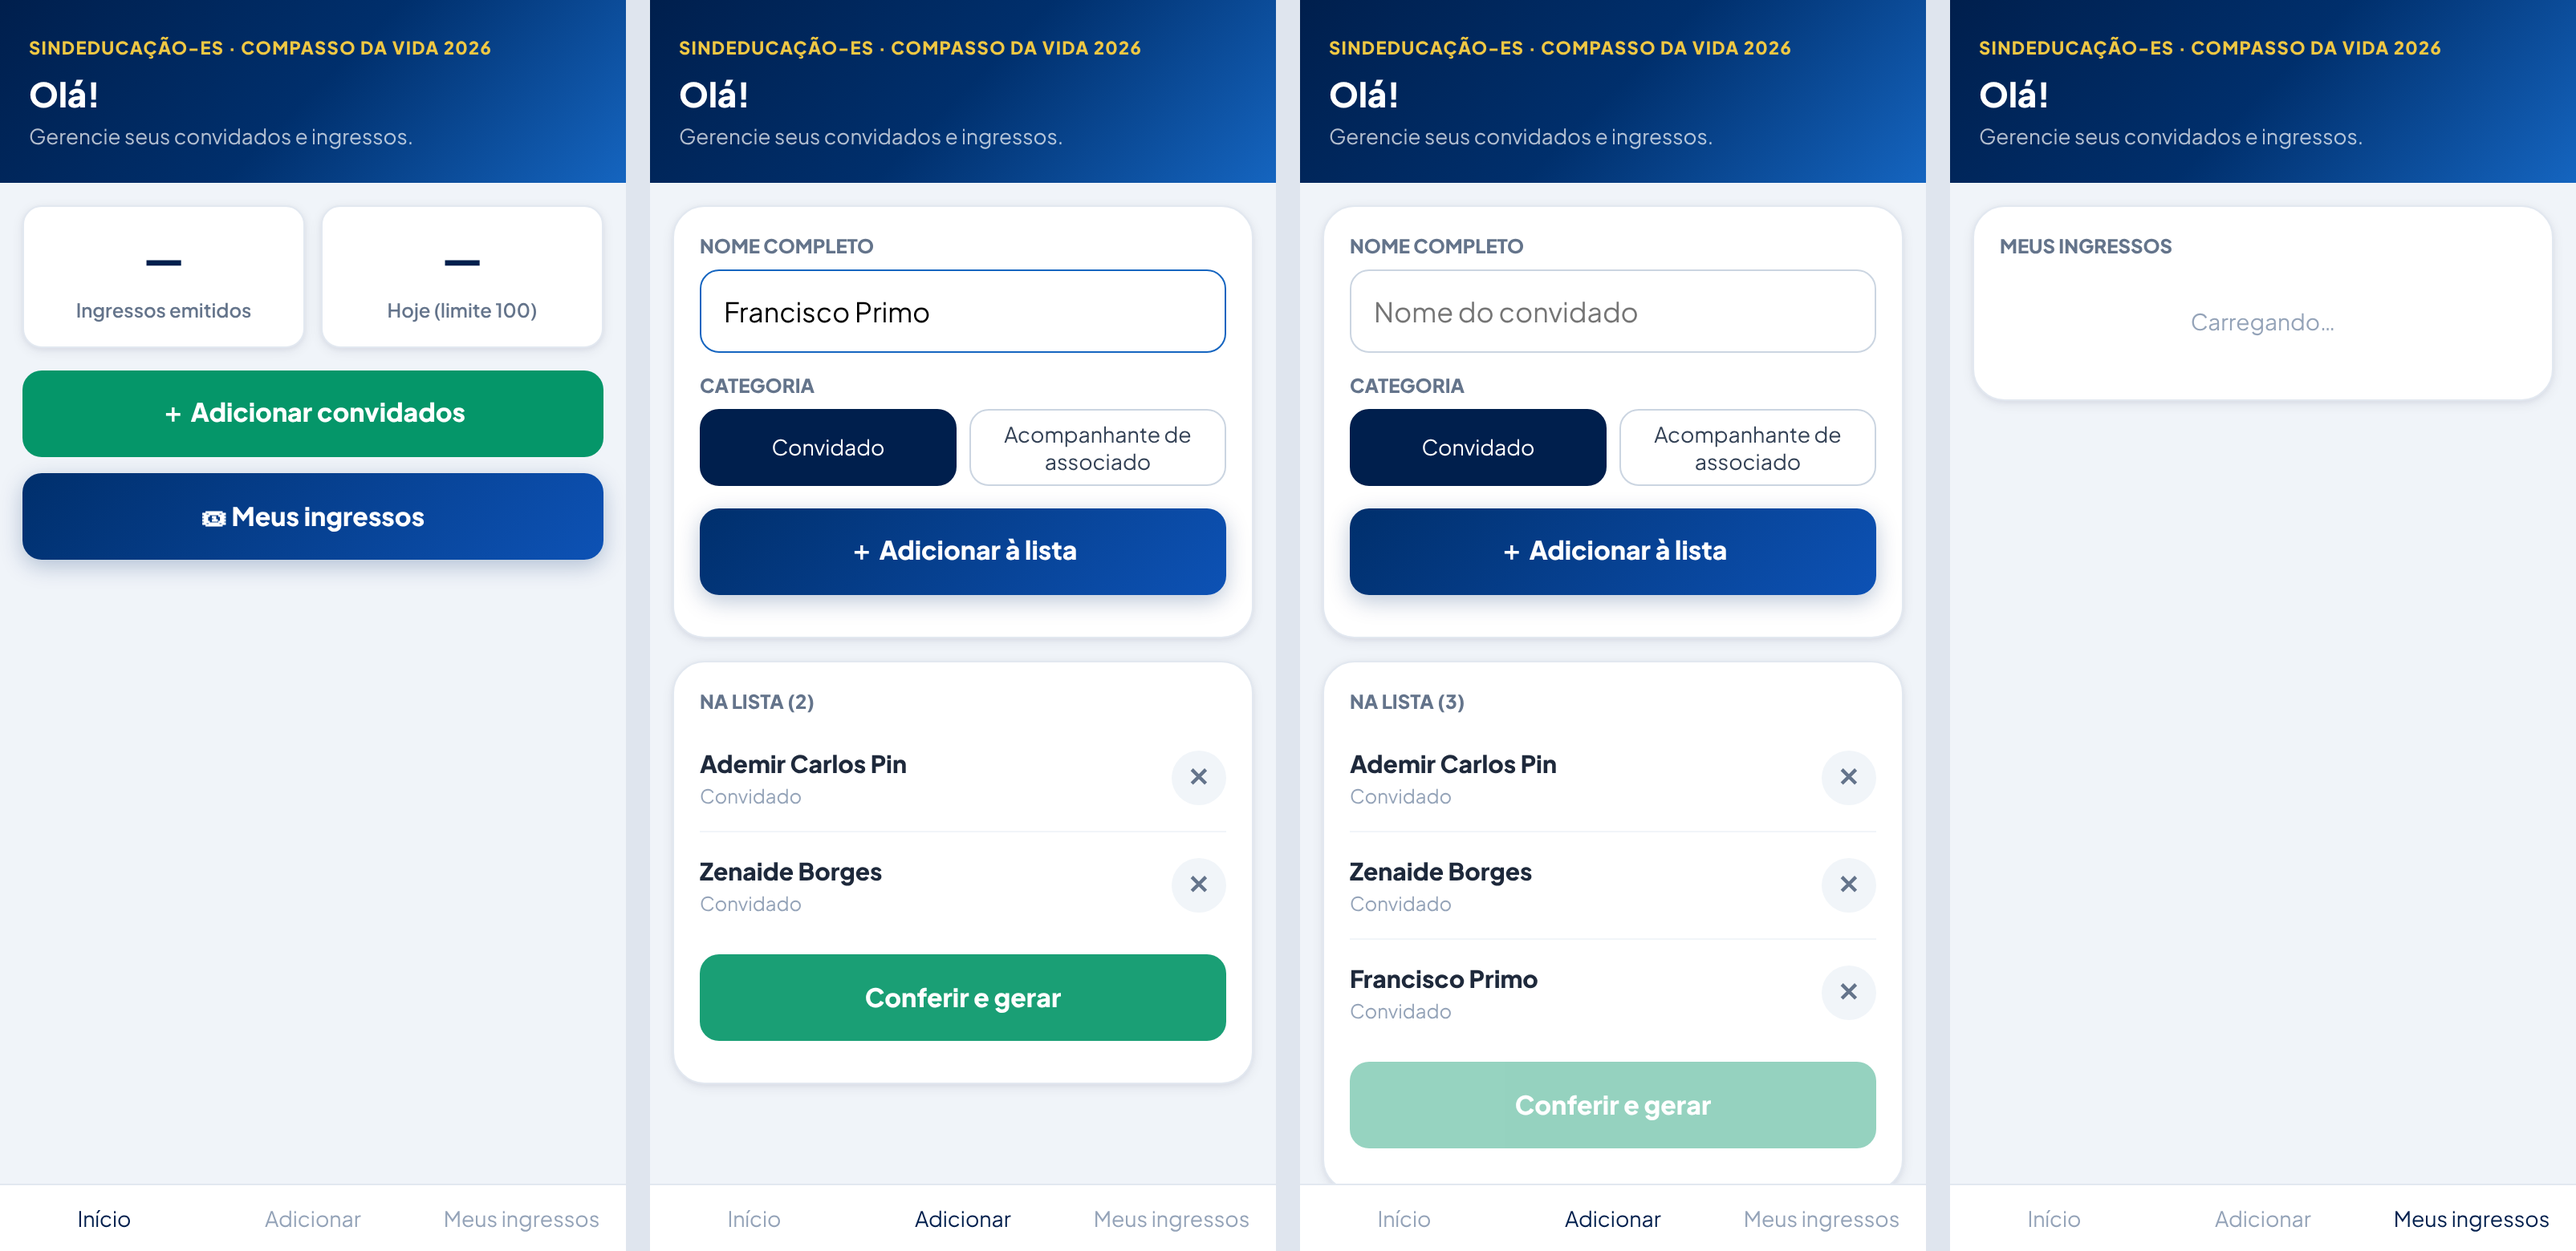
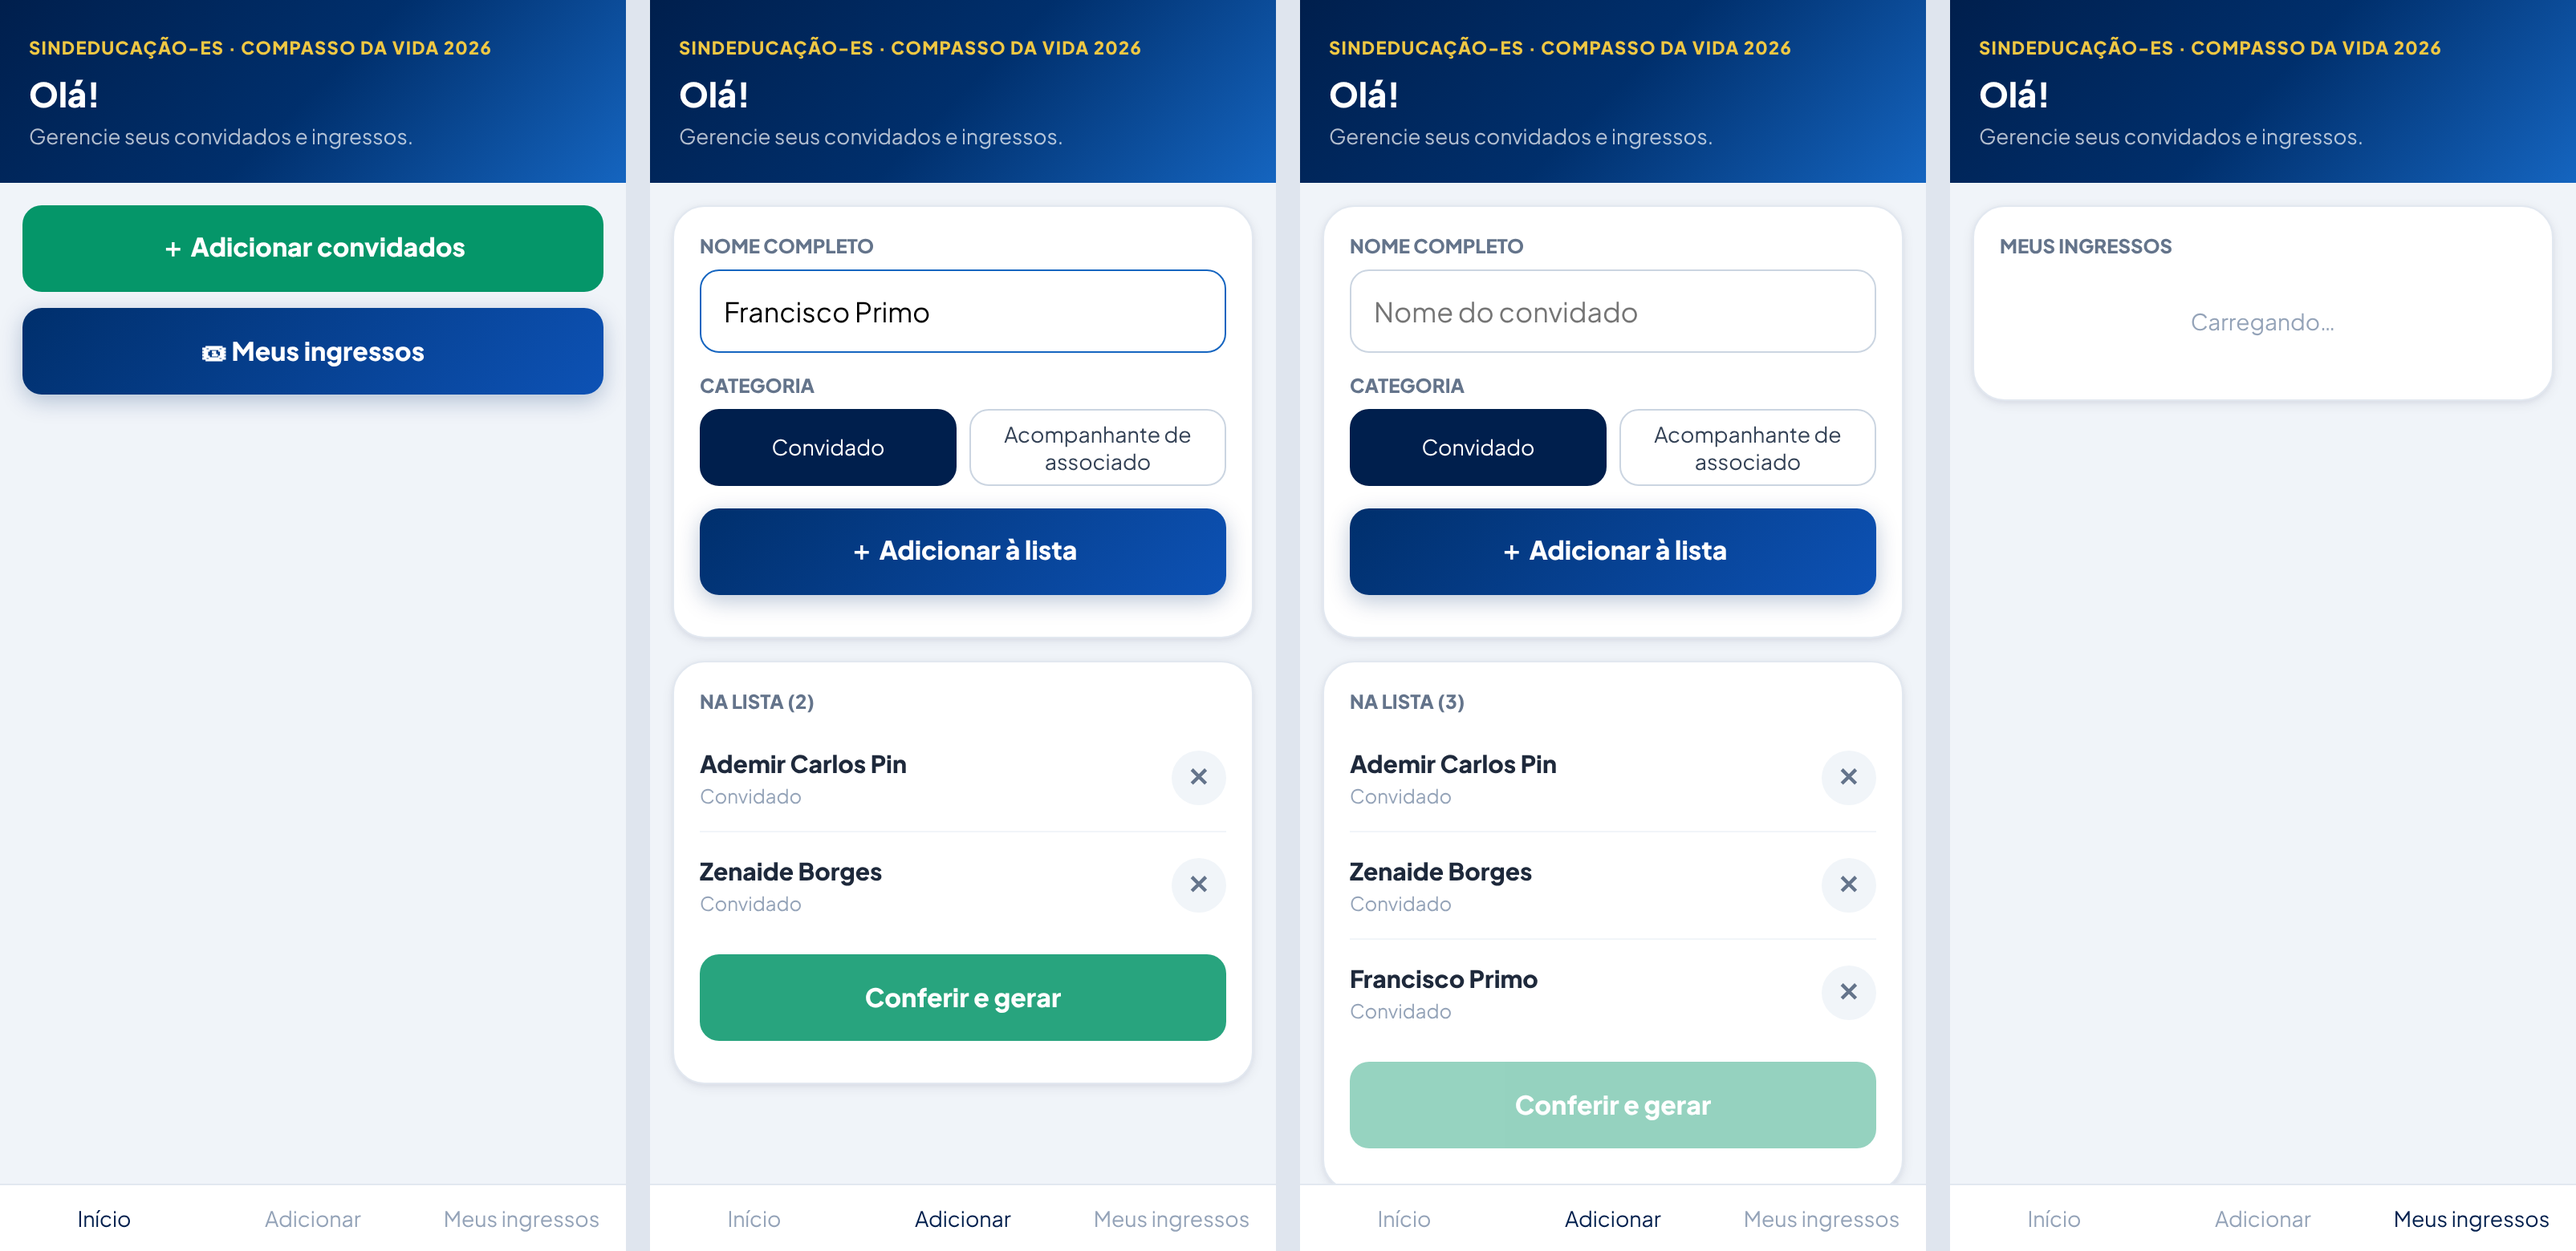
Presidência: a tela não mostra totais de ingressos nem o limite do dia (pedido do usuário)
Claude-Session: https://claude.ai/code/session_013fKgB93ccCyXawURWLtxVF

Changed region(s): [[0.0, 0.1538, 0.2492, 0.4615]]

diff --git a/PresidenciaIngressosTela.html b/PresidenciaIngressosTela.html
@@ -64,7 +64,6 @@
 <div class="wrap">
 
   <div class="tela on" id="tInicio">
-    <div class="kpis"><div class="kpi"><b id="kEmit">—</b><span>Ingressos emitidos</span></div><div class="kpi"><b id="kHoje">—</b><span>Hoje (limite <span id="kLim">100</span>)</span></div></div>
     <button class="btn btn-green" id="bAdd">＋ Adicionar convidados</button>
     <button class="btn btn-navy" id="bMeus">🎟 Meus ingressos</button>
   </div>
@@ -123,7 +122,7 @@
 
   function estado(){ api('presidencia_estado',[],function(r){
     if(!r.ok){ toast(r.mensagem||'Não consegui carregar.',true); return; }
-    $('oi').textContent='Olá, '+(r.nome==='Presidente'?'presidente':r.nome)+'!'; $('kEmit').textContent=r.emitidos; $('kHoje').textContent=r.hoje; $('kLim').textContent=r.limite; }); }
+    $('oi').textContent='Olá, '+(r.nome==='Presidente'?'presidente':r.nome)+'!'; }); }
 
   function pintaLista(){
     $('aQtd').textContent=LISTA.length; $('aConf').disabled=!LISTA.length;
@@ -174,7 +173,7 @@
     api('presidencia_meus',[],function(r){
       if(!r.ok){ $('mLista').innerHTML='<div class="vazio">'+esc(r.mensagem||'Não consegui carregar.')+'</div>'; return; }
       MEUS=r.ingressos; var gerando=0;
-      $('mTit').textContent='Meus ingressos ('+MEUS.length+')';
+      $('mTit').textContent='Meus ingressos';
       $('mLista').innerHTML=MEUS.length?MEUS.map(function(x,i){
         if(x.estado==='gerando'||x.estado==='cancelando') gerando++;
         var tag={pronto:'<span class="tag t-ok">pronto</span>',gerando:'<span class="tag t-w">gerando…</span>',falhou:'<span class="tag t-r">falhou</span>',cancelando:'<span class="tag t-w">cancelando…</span>',cancelado:'<span class="tag t-g">cancelado</span>'}[x.estado]||'';

diff --git a/tests/e2e/t305-presidencia-tela.js b/tests/e2e/t305-presidencia-tela.js
@@ -37,7 +37,8 @@ const espera = (ms) => new Promise(r => setTimeout(r, ms));
   const d = w.document, $ = (id) => d.getElementById(id);
   const clicar = (el) => el.dispatchEvent(new w.MouseEvent("click", { bubbles: true }));
   await espera(40);
-  b.ok(/presidente/.test($("oi").textContent) && $("kLim").textContent === "100", "mostra 'Olá, presidente!' e o limite do dia", $("oi").textContent);
+  b.ok(/presidente/.test($("oi").textContent), "mostra 'Olá, presidente!'", $("oi").textContent);
+b.ok(!$("kEmit") && !$("kHoje") && !$("kLim") && !/Ingressos emitidos|limite/i.test($("tInicio").textContent), "NÃO mostra totais nem limite (decisão do usuário: ele não vê a quantidade)");
   b.ok(!/CPF|telefone|WhatsApp/i.test(d.body.textContent), "a tela não pede CPF nem telefone");
   clicar($("bAdd")); b.ok($("tAdd").classList.contains("on"), "Adicionar convidados abre a tela de cadastro");
   $("aNome").value = "Zé"; clicar($("aAdd")); b.igual($("aQtd").textContent, "0", "nome curto não entra");
